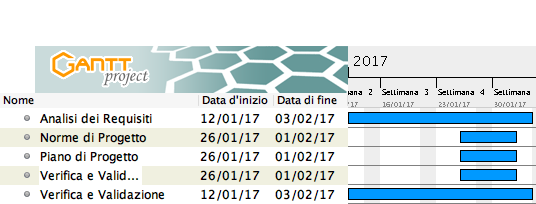
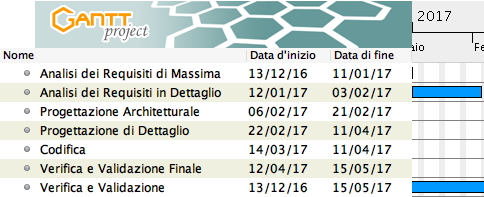
Piano di Progetto - Sistemato modello e diagrammi di Gantt. In attesa di verifica.

diff --git a/2 - RP/Esterni/Piano Di Progetto/Sezioni/3-Pianificazione.tex b/2 - RP/Esterni/Piano Di Progetto/Sezioni/3-Pianificazione.tex
@@ -2,14 +2,14 @@
 \section{Pianificazione}
 I membri del gruppo, con l'obbiettivo di agevolare lo sviluppo del progetto, hanno deciso congiuntamente di suddividere il carico di lavoro in 6 periodi:
 \begin{itemize}
-	\item \ARM;
-	\item \ARD;
-	\item \PA;
-	\item \PD;
-	\item \COD;
+	\item \ARM.
+	\item \ARD.
+	\item \PA.
+	\item \PD.
+	\item \COD.
 	\item \VV.
 \end{itemize}
-
+Tra questi, i periodi di \PD\ e \COD\ sono essenzialmente concorrenti mentre Verifica e Validazione, che comprende anche il periodo di \VV\ sopracitato, è trasversale in tutti i periodi come sarà descritto in un paragrafo successivo.
 Ad ognuno dei membri saranno assegnate delle attività principali da svolgere in un determinato periodo. Ognuno avrà dunque associato un \termine{diagramma di Gantt} al fine di agevolargli la visione e la comprensione delle tempistiche e delle scadenze delle varie attività assegnategli.
 Ogni attività potrà, a sua volta, essere suddivisa in sotto-attività ed avere, o meno, forte dipendenze con altre attività.\\
 Saranno inoltre definite delle \termine{milestone} esterne ed interne che coincideranno, rispettivamente, con le date di scadenza per la consegna dei documenti e con le scadenze per le revisioni stabilite dai membri del gruppo.
@@ -17,14 +17,20 @@ Ogni periodo, tra quelli sopraelencati, terminerà sempre con una \termine{miles
 
 Le diverse attività saranno rappresentate nel \termine{diagramma di Gantt} in termini temporali mediante linee blu.
 
-Infine si informa che l'attività \ARM\ è una fase di investimento da parte del gruppo per poter accedere al progetto didattico. Questa, dunque, non verrà rendicontata nel calcolo del costo totale che il software richiede.
+Infine si informa che l'attività \ARM\ è un periodo di investimento da parte del gruppo per poter accedere al progetto didattico. Questa, dunque, non verrà rendicontata nel calcolo del costo totale che il software richiede.
 
 \subsection{Suddivisione delle attività}
+
+ \begin{figure}[H]
+	\centering 
+	\includegraphics[scale=0.5]{Immagini/Gantt/TOT.png}
+	\caption{Diagramma di Gantt, Monolith}
+\end{figure}
 
 \subsubsection{\ARM}
 Periodo: dal 13/12/2016 all'11/01/2017. \\
 
-L'inizio del periodo di \ARM\ corrisponde all'inizio del progetto. In questa fase il gruppo deve scegliere un \termine{capitolato} e cominciare a lavorare con il fine ultimo di aggiudicarselo.\\
+L'inizio del periodo di \ARM\ corrisponde all'inizio del progetto. In questo periodo il gruppo deve scegliere un \termine{capitolato} e cominciare a lavorare con il fine ultimo di aggiudicarselo.\\
 Ciò comporta la stesura dei seguenti documenti:
  \begin{itemize}
  \item Esterni:
@@ -44,7 +50,7 @@ Ciò comporta la stesura dei seguenti documenti:
  
  \begin{figure}[H]
 	\centering 
-	\includegraphics[scale=0.4]{Immagini/Gantt/ARM.png}
+	\includegraphics[scale=0.5]{Immagini/Gantt/ARM.png}
 	\caption{Diagramma di Gantt, \ARM}
 \end{figure}
 
@@ -52,13 +58,13 @@ Ciò comporta la stesura dei seguenti documenti:
 Periodo: dal 12/01/2017 al 03/02/2017 \\
 
 Questo periodo inizia subito dopo la consegna dei documenti per la \RR. Il termine corrisponde ad una \termine{milestone} interna che coincide con l'inizio del periodo successivo, la \PA.\\
-Il \termine{gruppo} in questo periodo si impegnerà a consolidare ed ampliare, in modo più dettagliato, i requisiti richiesti per lo svolgimento del progetto.\\
+Il \termine{gruppo} in questo periodo si impegnerà ad identificare, ampliare e fissare definitivamente i requisiti richiesti per lo svolgimento del progetto.\\
 Verranno inoltre effettuate le modifiche necessarie, rilevate in seguito all'esito della \RR\, nei vari documenti.\\
-I ruoli coinvolti maggiormente in questa fase sono: \An, \Am, \Pm\ e \Ver.
+I ruoli coinvolti maggiormente in questo periodo sono: \An, \Am, \Pm\ e \Ver.
 
 \begin{figure}[H]
 	\centering 
-	\includegraphics[scale=0.6]{Immagini/Gantt/ARD.png}
+	\includegraphics[scale=0.5]{Immagini/Gantt/ARD.png}
 	\caption{Diagramma di Gantt, \ARD}
 \end{figure}
 
@@ -66,76 +72,78 @@ I ruoli coinvolti maggiormente in questa fase sono: \An, \Am, \Pm\ e \Ver.
 Periodo: dal 06/02/2017 al 21/02/2017 \\
 
 Inizia in seguito alla terminazione dell'\ARD\ ed il suo il termine prefissato coincide con una \termine{milestone} interna.
-Il \termine{gruppo} si pone l'obbiettivo di eseguire la progettazione del sistema ad alto livello e di redigere il documento \ST.\\
+Il \termine{gruppo} si pone l'obbiettivo di eseguire e fissare definitivamente la progettazione del sistema ad alto livello e di redigere il documento \ST.\\
 In quest'ultimo documento i \ProgP\ dovranno descrivere, ad alto livello, le scelte progettuali ed il \termine{design-pattern} scelti per la realizzazione dell'architettura generale del \termine{prodotto}. Vengono inoltre incrementati i documenti \NdP, \PdP, \PdQ\ e \Gl.\\
-In questa fase i ruoli maggiormente interessati sono: \Prog, \Pm, \Ver\ e \Am.
+In questo periodo i ruoli maggiormente interessati sono: \Prog, \Pm, \Ver\ e \Am.
 
  \begin{figure}[H]
 	\centering 
-	\includegraphics[scale=0.6]{Immagini/Gantt/PA.png}
+	\includegraphics[scale=0.5]{Immagini/Gantt/PA.png}
 	\caption{Diagramma di Gantt, \PA}
 \end{figure}
 
 \subsection{\PD}
-Periodo: dal 22/02/2017 all'08/03/2017\\
+Periodo: dal 22/02/2017 al 06/03/2017\\
 
-Questa fase inizia in seguito all'approvazione della \PA\ e termina con una \termine{milestone} esterna che coincide con la consegna dei documenti per la \RP.\\
-Il gruppo si impegna ad intraprendere e completare le seguenti attività:
+Dal seguente periodo lo svolgimento dei passi successivi segue il \termine{Modello Incrementale}, ovvero verranno realizzati prima i requisiti essenziali, poi quelli desiderabili e infine quelli facoltativi per ridurre il rischio di fallimento. 
+Inizia in seguito all'approvazione della \PA\ e si conclude entro la consegna del prodotto alla \RQ.
+Il gruppo si impegna a terminare la \PD\ almeno delle funzionalità essenziali per il 06/03/2017, che coincide con una \termine{milestone} esterna per la consegna dei documenti della \RP.\\
+Il gruppo, ad ogni incremento, si impegna ad intraprendere e completare le seguenti attività:
 \begin{itemize}
 \item
-Redigere il documento \DDP\ in cui i \ProgrP\ e i \ProgP\ devono descrivere il comportamento e le interazioni tra i vari componenti del sistema, basandosi sul documento di \ST;
+Redigere o aggiornare il documento \DDP\ in cui i \ProgrP\ e i \ProgP\ devono descrivere il comportamento e le interazioni tra i vari componenti del sistema, basandosi sul documento di \ST.
 \item
-Incrementare i documenti \NdP, \PdP, \PdQ, \ST\ e \Gl.
+Incrementare i documenti \NdP, \PdP, \PdQ\ e \Gl.
 \end{itemize}
-In questa fase i ruoli maggiormente impegnati sono quelli di \Prog, \Pm, \Ver\ e \Am.
+In questo periodo i ruoli maggiormente impegnati sono quelli di \Prog, \Progr, \Pm, \Ver\ e \Am.
 
  \begin{figure}[H]
 	\centering 
-	\includegraphics[scale=0.4]{Immagini/Gantt/PD.png}
+	\includegraphics[scale=0.5]{Immagini/Gantt/PD.png}
 	\caption{Diagramma di Gantt, \PD}
 \end{figure}
 
 \subsubsection{\COD}
 Periodo: dal 14/03/2017 all'11/04/2017. \\
 
-Il periodo di \COD\ inizia una volta concluso quello di \PD, e si conclude con la consegna del prodotto alla \RQ. L'obiettivo in questo periodo consiste nel consegnare un prodotto completo, e le attività che verranno eseguite in questa fase a tal fine sono le seguenti:
+Il periodo di \COD\ avviene in concorrenza a quello di \PD ed inizia una volta completata la progettazione dettagliata delle funzionalità essenziali. Essa si conclude con la consegna del prodotto alla \RQ. L'obiettivo finale consiste nel consegnare un prodotto completo, e le attività che ad ogni incremento verranno eseguite a tal fine sono le seguenti:
 \begin{itemize}
-	\item \COD: i \ProgrP\ dovranno sviluppare il codice del prodotto software attenendosi il più possibile a quanto scritto dai \ProgP\ nel documento \DDP. L'attività di \COD\ deve essere fatta seguendo, iterativamente, i seguenti passi fino all realizzazione del prodotto finito:
+	\item \COD: I \ProgrP\ devono sviluppare il codice del prodotto software attenendosi il più possibile a quanto scritto dai \ProgP\ nel documento \DDP. L'attività di \COD\ deve essere fatta seguendo, iterativamente, i seguenti passi:
 			\begin{itemize}
-				\item \termine{Codifica} dell'incremento svolto dai \ProgP;
-				\item \termine{Verifica} dell'incremento;
+				\item \termine{Codifica} dell'incremento svolto dai \ProgP.
+				\item \termine{Verifica} dell'incremento.
 			\end{itemize}
-	\item Stesura \MU: questo documento è destinato all'utilizzatore finale del prodotto che, tramite esso, deve essere in grado di capire le principali funzionalità del sistema e come utilizzarle;
-	\item Incremento dei documenti \NdP, \PdP, \PdQ\ e \Gl;
-	\item \termine{Verifica} dei documenti sopra citati.
+	\item Stesura o ampliamento del \MU: questo documento è destinato all'utilizzatore finale del prodotto che, tramite esso, deve essere in grado di capire le principali funzionalità del sistema e come utilizzarle.
+	\item \termine{Verifica} dei documenti, della progettazione e del software prodotto con gli strumenti definiti nelle \NdP.
 \end{itemize}
-In questa fase i ruoli maggiormente interessati sono quelli di \Am, \Pm, \Prog, \Progr\ e \Ver.
+I ruoli maggiormente interessati sono quelli di \Am, \Pm, \Prog, \Progr\ e \Ver.
 
  \begin{figure}[H]
 	\centering 
-	\includegraphics[scale=0.6]{Immagini/Gantt/COD.png}
+	\includegraphics[scale=0.5]{Immagini/Gantt/COD.png}
 	\caption{Diagramma di Gantt, \COD}
 \end{figure}
 
 \subsubsection{Verifica e Validazione}
 Periodo: dal 16/12/2016 al 14/05/2017.\\
 
-Questa fase, come si può osservare dalla data di inizio, è trasversale a tutti i periodi. Infatti, per garantire ad ogni incremento efficacia ed efficienza del prodotto, le operazioni di \termine{testing}, \termine{verifica} e \termine{validazione} vengono eseguite durante tutto il corso del progetto.\\
+Questo periodo, come si può osservare dalla data di inizio, è trasversale a tutti i periodi. Infatti, per garantire ad ogni incremento efficacia ed efficienza del prodotto, le operazioni di \termine{testing}, \termine{verifica} e \termine{validazione} vengono eseguite durante tutto il corso del progetto.\\
 
 \paragraph{\VV}
 Periodo: dal 12/04/2017 al 15/05/2017 \\
 
-Al termine della \COD\ verranno effettuati ed intensificati tutti i test necessari per garantire che il prodotto soddisfi tutti i requisiti dell'\AdR.
+Al termine della \PD e \COD\ verranno effettuati ed intensificati tutti i test necessari per garantire che il prodotto soddisfi tutti i requisiti dell'\AdR e la correzione di eventuali errori nel codice e/o nei vari documenti.
 Le attività prevedono di:
 \begin{itemize}
-	\item Effettuare dei test di sistema;
-	\item Incrementare i documenti di: \MU, \NdP, \PdP, \PdQ\ e \Gl;
+	\item Effettuare dei test di sistema.
+	\item Incrementare, correggere o aggiornare i documenti di: \MU, \NdP, \PdP, \PdQ\ e \Gl.
 	\item Verificare tutti i documenti sopra citati.
+	\item Verificare il corretto funzionamento del prodotto correggendo eventuali errori.
 \end{itemize}
-In questa fase i ruoli maggiormente interessati sono quelli di \Ver, \Prog, \Am\ e \Pm.
+In questo periodo i ruoli maggiormente interessati sono quelli di \Ver, \Prog, \Am\ e \Pm.
 
  \begin{figure}[H]
 	\centering 
-	\includegraphics[scale=0.4]{Immagini/Gantt/VV.png}
+	\includegraphics[scale=0.5]{Immagini/Gantt/VV.png}
 	\caption{Diagramma di Gantt, \VV}
 \end{figure}

diff --git a/2 - RP/Esterni/Piano Di Progetto/Sezioni/2-AnalisiDeiRischi.tex b/2 - RP/Esterni/Piano Di Progetto/Sezioni/2-AnalisiDeiRischi.tex
@@ -19,6 +19,12 @@ I vantaggi attesi dalla scelta di tale modello sono i seguenti:
 	\item Il favoreggiamento della creazione di prototipi, ovvero di parti di prodotto funzionanti, che a loro volta favoriscono il dialogo con il cliente.
 \end{itemize}
 
+I possibili svantaggi e punti critici del modello sono i seguenti:
+\begin{itemize}
+\item Rischio di causare un'iterazione anziché un incremento.
+\item Rischio di commettere errori dovuti alla scarsa esperienza del gruppo nel utilizzare tale modello.
+\end{itemize}
+
 \subsection{Classificazione dei rischi}
 
 \begin{enumerate}
@@ -122,7 +128,7 @@ I vantaggi attesi dalla scelta di tale modello sono i seguenti:
 	\rowcolor{blue} Descrizione & Durante la pianificazione, a causa di assunzioni sbagliate, può capitare che le previsioni sui tempi di adempimento delle attività e di consegna finale siano errati. & \\[2ex]	
 	\rowcolor{lightblue} Probabilità di occorrenza & Media. &\\[1ex]
 	\rowcolor{blue} Fattore di rischio & Alto. & \\[1ex]
-	\rowcolor{lightblue} Trattamento & Per evitare di sottostimare il tempo necessario a svolgere tutte le attività, è opportuno dimensionare il tempo da dedicare alle varie fasi con un \termine{tempo di slack} sufficientemente grande, in modo da evitare queste situazioni. & \\[1ex] 
+	\rowcolor{lightblue} Trattamento & Per evitare di sottostimare il tempo necessario a svolgere tutte le attività, è opportuno dimensionare il tempo da dedicare ai vari processi con un \termine{tempo di slack} sufficientemente grande, in modo da evitare queste situazioni. & \\[1ex] 
 	\rowcolor{blue}  Attualizzazione & Questo rischio non si è ancora verificato. & \\[1ex]
 	\end{tabular}
 	

diff --git a/2 - RP/Esterni/Piano Di Progetto/Sezioni/Diario.tex b/2 - RP/Esterni/Piano Di Progetto/Sezioni/Diario.tex
@@ -1,5 +1,6 @@
 \newcommand{\modifiche}{
-Modifiche e aggiunta consuntivo & \SL & \Pm & 17/02/2016 & 1.0.1\\\midrule
+Sistemata pianificazione e diagrammi & \FB & \Ver & 21/02/2017 & 1.0.2\\\midrule
+Modifiche e aggiunta consuntivo & \SL & \Pm & 17/02/2017 & 1.0.1\\\midrule
 Approvazione & \LD & \Pm & 30/12/2016 & 1.0.0\\\midrule
 	Verifica organigramma & \RM & \Ver & 28/12/2016 & 0.3.0 \\\midrule
 	Stesura organigramma & \SL & \Pm & 27/12/2016 & 0.2.1 \\\midrule

diff --git a/2 - RP/Esterni/Piano Di Progetto/Sezioni/6-SuddivisioneDelLavoro.tex b/2 - RP/Esterni/Piano Di Progetto/Sezioni/6-SuddivisioneDelLavoro.tex
@@ -44,7 +44,7 @@ Nell'attività di \ARM\ ciascun componente dovrà rivestire i seguenti ruoli:
 
 \begin{figure}[H]
 	\centering 
-	\includegraphics[scale=0.7]{Immagini/GraficiPianoLavoro/ARM.png}
+	\includegraphics[scale=0.55]{Immagini/GraficiPianoLavoro/ARM.png}
 	\caption{Incidenza ore per membro, \ARM}
 \end{figure}
 

diff --git a/2 - RP/Esterni/Piano Di Progetto/PianoDiProgetto.tex b/2 - RP/Esterni/Piano Di Progetto/PianoDiProgetto.tex
@@ -3,7 +3,7 @@
 
 % Comandi per generare l'intro
 \newcommand{\documento}{\PdP}
-\newcommand{\versione}{1.0.0}
+\newcommand{\versione}{1.0.2}
 \newcommand{\redatori}{\SL\\ & \FB}
 \newcommand{\revisori}{\RM}
 \newcommand{\approvazione}{\LD}
